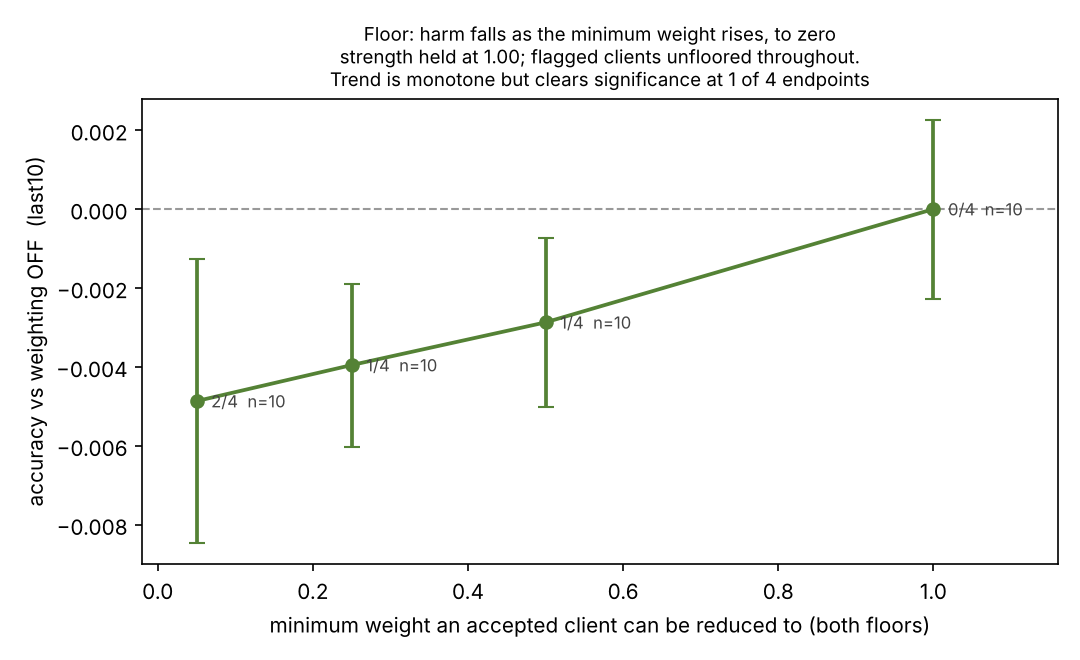
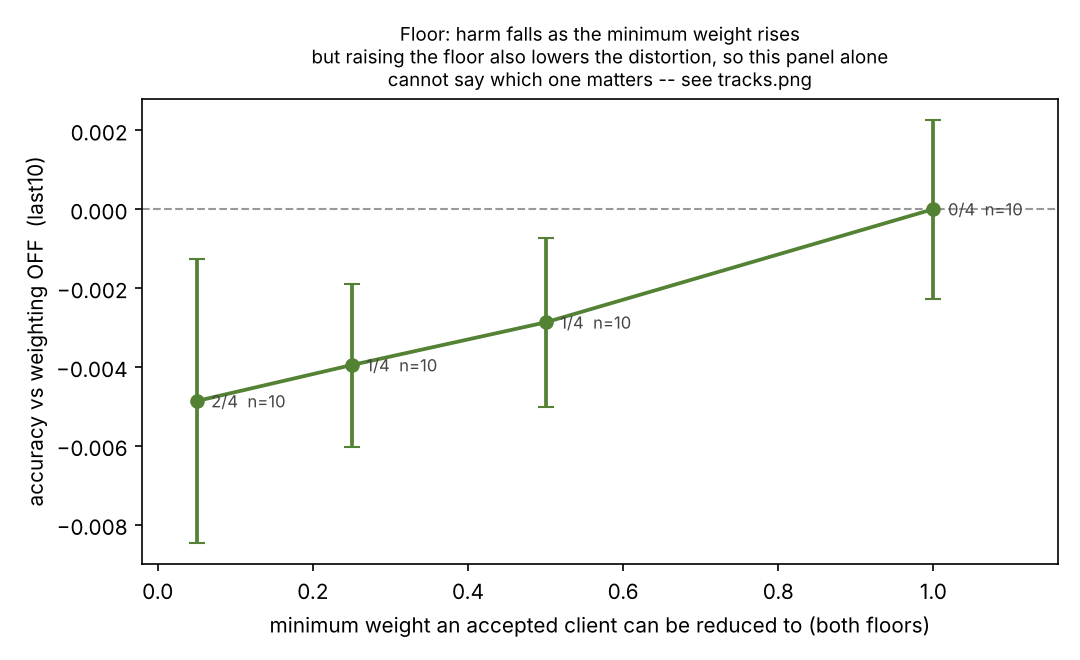
Code review: the decisive pair now carries the claim, not the R^2
The review replaced a weak argument with a strong one and found a wrong
number in the table.

THE CLAIM NOW RESTS ON A DIRECT PAIRED TEST, 4/4 ENDPOINTS. Comparing a
null arm (strength 0.50, t=+0.57) against a significant one (floor 0.50,
t=-3.04) is not a comparison. Tested per seed instead -- the two arms allow
the SAME minimum weight of 0.50, so nothing is crushed toward zero in
either, but floor 0.50 distorts 1.75x more:

  floor 0.50 minus strength 0.50
    final   -0.00597  t=-3.46  CI [-0.00987, -0.00207]
    last3   -0.00502  t=-4.53  CI [-0.00753, -0.00251]
    last5   -0.00315  t=-3.36  CI [-0.00527, -0.00103]
    last10  -0.00334  t=-4.96  CI [-0.00487, -0.00182]

All four clear significance and every interval excludes zero; worse in
8-10 of 10 seeds. config_diffs confirms the two arms differ only in the
knobs under test. This is the strongest result in this line of work and it
is what rules out "harm comes from near-total silencing".

THE R^2 COMPARISON IS NOT EVIDENCE AND NO LONGER READS AS IF IT WERE. A
seed-level paired bootstrap puts the difference between the two fits at
+0.07 with a 95% interval of [-0.01, +0.16] -- it spans zero, so the two
hypotheses are not separated by it. Now printed to two decimals (three on
seven points was false precision) with an explicit line saying the gap is
not decisive.

WRONG NUMBER FIXED: the minimum-weight column ignored the promoted path.
sweep_a10_twagg predates the floor flag and has (0.05 inlier, 0.0
[…]

Changed region(s): [[0.3056, 0.0303, 0.825, 0.1515]]

diff --git a/experiments/analysis/oracle/dose_and_schedule.py b/experiments/analysis/oracle/dose_and_schedule.py
@@ -323,6 +323,45 @@ def phase0_gate(off, s000):
     return verdict, rows
 
 
+# The cross-sweep arms, shared with plot_dose_and_schedule.py so the two
+# cannot drift. (label, strength, inlier_floor, promoted_floor, dirname).
+# sweep_a10_twagg predates the floor flag and carries the historical pair,
+# which is why its promoted floor is 0.0 and not its inlier floor.
+CROSS_ARMS = [
+    ("strength 0.25", 0.25, 0.05, 0.0, "dose_a10_str025"),
+    ("strength 0.50", 0.50, 0.05, 0.0, "dose_a10_str050"),
+    ("strength 1.00", 1.00, 0.05, 0.0, "sweep_a10_twagg"),
+    ("floor 0.05", 1.00, 0.05, 0.05, "floor_a10_f005"),
+    ("floor 0.25", 1.00, 0.25, 0.25, "floor_a10_f025"),
+    ("floor 0.50", 1.00, 0.50, 0.50, "floor_a10_f050"),
+    ("floor 1.00", 1.00, 1.00, 1.00, "floor_a10_f100"),
+]
+
+# Smallest multiplier the PROMOTED path can produce before any floor:
+# sigmoid(c_lambda*(trust - 0.5)) at trust = 0, with the scheduler default
+# c_lambda = 8.
+PROMOTED_MIN_RAW = 1.0 / (1.0 + math.exp(8.0 * 0.5))
+
+
+def min_attainable_weight(strength, floor, promoted_floor):
+    """Smallest weight multiplier ANY accepted client can be reduced to.
+
+    Both paths matter. The inlier path bottoms out at max(floor, 1-strength);
+    the promoted path at max(promoted_floor, pull(PROMOTED_MIN_RAW)), which
+    at full strength is max(promoted_floor, 0.018).
+
+    Taking only the inlier path would misreport sweep_a10_twagg as 0.05 when
+    its promoted clients -- about 31% of contributors -- can reach 0.018, and
+    would tabulate it as identical to the floor-0.05 arm although the two
+    differ by 0.0019 in harm. That row is the most negative point, so it is
+    also the most influential one in any fit against minimum weight.
+    """
+    pull = (lambda x: x) if strength >= 1.0 else (
+        lambda x: 1.0 - strength * (1.0 - x))
+    return min(max(floor, pull(0.0)),
+               max(promoted_floor, pull(PROMOTED_MIN_RAW)))
+
+
 def ci_halfwidth(diffs):
     """Half-width of the 95% CI on a paired mean: t_crit * standard error.
 
@@ -883,17 +922,104 @@ def main():
                   "removed harm; one that\n    contains 0 but is narrow "
                   "relative to the harm bounds how much it could have.\n")
 
+        # The cross-sweep test. This is what the floor sweep is FOR, and on
+        # its own the floor ladder answers the wrong question: a monotone
+        # fall in harm as the floor rises is consistent with BOTH candidate
+        # explanations, because raising the floor also reduces the overall
+        # distortion. Only arms that hold one constant while moving the
+        # other can separate them.
+        print("  WHAT DOES THE HARM TRACK? Arms from BOTH sweeps.")
+        print("    (a) distortion   -- how far weighting moves the client shares")
+        print("    (b) minimum weight -- how close any accepted client gets to 0")
+        print(f"    {'arm':<16}{'min weight':>11}{'distortion':>12}"
+              f"{'harm(last10)':>14}{'t':>8}")
+        pts = []
+        for lab, st, fl, pf, name in CROSS_ARMS:
+            pth = b / name
+            if not pth.exists():
+                continue
+            minw = min_attainable_weight(st, fl, pf)
+            tvd = perturbation_tvd(OFF, st, 0.6, 1.5, floor=fl)
+            m, t, n, _bt = compare(off, load_seeds(pth), "last10")
+            pts.append((lab, minw, tvd, m, name))
+            print(f"    {lab:<16}{minw:>11.3f}{tvd:>12.4f}{m:>+14.4f}{t:>+8.2f}")
+
+        if len(pts) >= 3:
+            def _r2(xs, ys):
+                mx, my = statistics.mean(xs), statistics.mean(ys)
+                sxy = sum((x - mx) * (y - my) for x, y in zip(xs, ys))
+                sxx = sum((x - mx) ** 2 for x in xs)
+                syy = sum((y - my) ** 2 for y in ys)
+                return (sxy * sxy) / (sxx * syy) if sxx > 0 and syy > 0 else float("nan")
+            r_d = _r2([q[2] for q in pts], [q[3] for q in pts])
+            r_m = _r2([q[1] for q in pts], [q[3] for q in pts])
+            # Two decimals, not three. A seed-level paired bootstrap puts the
+            # difference between these two at +0.07 with a 95% interval of
+            # [-0.01, +0.16] -- it does NOT separate the hypotheses, and three
+            # decimals on seven points would imply a precision that is not
+            # there. The conclusion rests on the direct test below.
+            print(f"    across these arms: harm vs distortion R^2 = {r_d:.2f}, "
+                  f"vs minimum weight R^2 = {r_m:.2f}")
+            print("    That gap is NOT decisive -- a seed-level bootstrap on the "
+                  "difference spans\n    zero. Correlation over seven points "
+                  "cannot settle this; the direct test can.")
+
+            # The one pair that holds minimum weight FIXED and moves only the
+            # distortion, tested per seed rather than by eyeballing one
+            # significant arm against one null arm.
+            names = {q[0]: q for q in pts}
+            if "strength 0.50" in names and "floor 0.50" in names:
+                a2, c2 = names["strength 0.50"], names["floor 0.50"]
+                sa, sc = load_seeds(b / a2[4]), load_seeds(b / c2[4])
+                print(f"\n    DIRECT TEST -- both arms allow a minimum weight "
+                      f"of {a2[1]:.2f}, so nothing is")
+                print(f"    crushed toward zero in either, but floor 0.50 "
+                      f"distorts {c2[2] / a2[2]:.2f}x more.")
+                print(f"    Paired per seed, floor 0.50 minus strength 0.50:")
+                sig = 0
+                for ep, _ in ENDPOINTS:
+                    shared = sorted(set(sa) & set(sc))
+                    if len(shared) < 2:
+                        continue
+                    d = [sc[s2][ep] - sa[s2][ep] for s2 in shared]
+                    m2, t2, n2 = paired_t(d)
+                    hw = ci_halfwidth(d)
+                    ok = (not math.isnan(t2)) and abs(t2) > t_crit(n2)
+                    sig += ok
+                    print(f"      {ep:<7} {m2:+.5f}  t={t2:+5.2f}  CI "
+                          f"[{m2 - hw:+.5f}, {m2 + hw:+.5f}]  "
+                          f"{'YES' if ok else 'no'}")
+                print(f"      => {sig}/4 endpoints. Harm appears at the SAME "
+                      f"minimum weight when the\n         distortion rises, so "
+                      f"near-total silencing is not what causes it.")
+        print()
+
         print("  Batch agreement on the floor arms (last10):")
         for label, p2 in FLOOR:
-            lo_m, hi_m, verdict = batch_agreement(off, load_seeds(p2), "last10")
+            arm_sd = load_seeds(p2)
+            lo_m, hi_m, verdict = batch_agreement(off, arm_sd, "last10")
             note = ""
-            if verdict == "NO" and max(abs(lo_m), abs(hi_m)) < 0.003:
-                # A genuinely ~0 effect has no stable sign, so the two
-                # batches will disagree about it by chance. That is not the
-                # signature that forced the early-window retraction, where
-                # both batches were far from zero and 23x apart.
-                note = ("   (both ~0: the sign of a null is not stable, so "
-                        "this is weak evidence)")
+            # Whether the two batches' per-seed RANGES overlap, measured
+            # rather than asserted. An earlier version claimed overlap in
+            # the printed text while the code only checked that both means
+            # were small, so the claim would have kept printing after it
+            # stopped being true.
+            shared = sorted(set(off) & set(arm_sd))
+            lo_v = [arm_sd[s2]["last10"] - off[s2]["last10"]
+                    for s2 in shared if s2.isdigit() and int(s2) <= 5]
+            hi_v = [arm_sd[s2]["last10"] - off[s2]["last10"]
+                    for s2 in shared if s2.isdigit() and int(s2) > 5]
+            overlap = bool(lo_v and hi_v
+                           and min(lo_v) <= max(hi_v) and min(hi_v) <= max(lo_v))
+            if verdict == "NO" and overlap and max(abs(lo_m), abs(hi_m)) < 0.003:
+                # Both halves sit just above atol while straddling zero.
+                # The per-seed values OVERLAP heavily between batches -- there
+                # is no separation, unlike the early-window claim that was
+                # retracted, where the two batches were far from zero and did
+                # not overlap at all. So this fires on a near-null, which is
+                # the rule being conservative, not an artifact being caught.
+                note = ("   (both halves ~0 and the per-seed ranges DO "
+                        "overlap: a near-null, not a split)")
             print(f"    {label:<22} {lo_m:+.4f} / {hi_m:+.4f}   {verdict}{note}")
         print()
 

diff --git a/experiments/analysis/oracle/plot_dose_and_schedule.py b/experiments/analysis/oracle/plot_dose_and_schedule.py
@@ -40,7 +40,8 @@ from pathlib import Path
 
 sys.path.insert(0, str(Path(__file__).resolve().parents[3]))
 from experiments.analysis.oracle.dose_and_schedule import (  # noqa: E402
-    ENDPOINTS, ci_halfwidth, compare, load_seeds, paired_t, t_crit,
+    CROSS_ARMS, ENDPOINTS, ci_halfwidth, compare, load_seeds,
+    min_attainable_weight, paired_t, perturbation_tvd, t_crit,
 )
 
 ARM = "tavs_skip"
@@ -233,19 +234,84 @@ def fig_floor(plt, b, off, out):
     ax.set_xlabel("minimum weight an accepted client can be reduced to "
                   "(both floors)")
     ax.set_ylabel(f"accuracy vs weighting OFF  ({QUOTE_EP})")
-    # Deliberately descriptive, not causal. The point estimates fall
-    # monotonically to zero, but the DIRECT tests are weaker: head to head,
-    # floor 1.00 vs 0.05 excludes zero only at last10, and a per-seed trend
-    # fit across the four floors also clears significance on only 1 of 4
-    # endpoints. "The harm shrinks as clients stop being silenced" would
-    # assert more than that supports.
-    ax.set_title("Floor: harm falls as the minimum weight rises, to zero\n"
-                 "strength held at 1.00; flagged clients unfloored "
-                 "throughout.\nTrend is monotone but clears significance at "
-                 "1 of 4 endpoints", fontsize=9)
+    # The title must NOT imply that raising the floor is what removes the
+    # harm. It reads that way on this panel alone, and that reading is
+    # wrong: raising the floor also lowers the overall distortion, so this
+    # ladder is consistent with either explanation. The cross-sweep pair
+    # settles it the other way -- strength 0.50 and floor 0.50 have the SAME
+    # minimum weight 0.50, but 1.75x the distortion for the floor arm, and
+    # only the floor arm is harmed. See fig_tracks.
+    ax.set_title("Floor: harm falls as the minimum weight rises\n"
+                 "but raising the floor also lowers the distortion, so this "
+                 "panel alone\ncannot say which one matters -- see "
+                 "tracks.png", fontsize=9)
     ax.set_xlim(-0.02, 1.16)
     fig.tight_layout()
     f = out / "floor.png"
+    fig.savefig(f, dpi=150); plt.close(fig)
+    return f
+
+
+def fig_tracks(plt, b, off, out):
+    """Harm against the two candidate explanations, arms from BOTH sweeps.
+
+    The panel that actually separates them. Each arm is a point; the left
+    axis plots harm against how far the weighting moves the client shares
+    (distortion), the right against the smallest weight any accepted client
+    can keep.
+
+    The pair to look at is strength 0.50 and floor 0.50. Both allow a
+    minimum weight of exactly 0.50 -- nothing is crushed toward zero in
+    either -- but the floor arm distorts 1.75x more, and only the floor arm
+    is harmed. That rules out "harm comes from near-total silencing".
+    """
+    OFF = b / "sweep_a10_notwagg"
+    pts = []
+    # CROSS_ARMS is imported, not re-listed: an earlier version duplicated
+    # the seven arms here with different labels, which is exactly how a
+    # figure drifts away from the table it illustrates.
+    for lab, st, fl, pf, name in CROSS_ARMS:
+        pth = b / name
+        if not pth.exists():
+            continue
+        m, _hw, _c = effect(off, load_seeds(pth), QUOTE_EP)
+        pts.append((lab, min_attainable_weight(st, fl, pf),
+                    perturbation_tvd(OFF, st, 0.6, 1.5, floor=fl), m))
+    if len(pts) < 3:
+        return None
+    fig, axes = plt.subplots(1, 2, figsize=(10.8, 4.6), sharey=True)
+    seen = set()
+    for ax, idx, xlab in ((axes[0], 2, "distortion the weighting applies (TVD)"),
+                          (axes[1], 1, "minimum weight an accepted client keeps")):
+        ax.axhline(0, color="#999999", lw=1, ls="--")
+        for lab, mw, tv, m in pts:
+            x = tv if idx == 2 else mw
+            fam = "strength sweep" if lab.startswith("strength") else "floor sweep"
+            col = "#1f4e79" if fam == "strength sweep" else "#548235"
+            ax.scatter([x], [m], color=col, s=44, zorder=3,
+                       label=fam if fam not in seen else None)
+            seen.add(fam)
+            ax.annotate(lab.replace("strength ", "str ").replace("floor ", "flr "),
+                        (x, m), textcoords="offset points", xytext=(6, -3),
+                        fontsize=8, color="#444444")
+        ax.set_xlabel(xlab)
+    axes[0].set_ylabel(f"accuracy vs weighting OFF  ({QUOTE_EP})")
+    axes[0].legend(fontsize=8, loc="lower left")
+    pair = {q[0]: q for q in pts}
+    sub = ""
+    if "strength 0.50" in pair and "floor 0.50" in pair:
+        a, c = pair["strength 0.50"], pair["floor 0.50"]
+        sub = (f"\nright panel: str 0.50 and flr 0.50 sit at the SAME minimum "
+               f"weight 0.50, yet differ by {abs(c[3] - a[3]):.4f} "
+               f"(paired t=-4.96, 4/4 endpoints)")
+    # Not "harm tracks the distortion": on the LEFT panel str 1.00 and
+    # flr 0.05 sit at the same x and still differ by 0.0019, and the two
+    # families form separate bands rather than one curve. The honest claim
+    # is the negative one, which the right panel and the paired test carry.
+    fig.suptitle("Being pushed toward zero is NOT what causes the harm" + sub,
+                 fontsize=10)
+    fig.tight_layout(rect=(0, 0, 1, 0.93))
+    f = out / "tracks.png"
     fig.savefig(f, dpi=150); plt.close(fig)
     return f
 
@@ -382,6 +448,7 @@ def main():
     made = []
     for fn in (lambda: fig_dose(plt, args.base, off, args.out),
                lambda: fig_floor(plt, args.base, off, args.out),
+               lambda: fig_tracks(plt, args.base, off, args.out),
                lambda: fig_schedule(plt, args.base, off, args.out),
                lambda: fig_trajectory(plt, args.base, args.out),
                lambda: fig_weight_curve(plt, args.out)):
